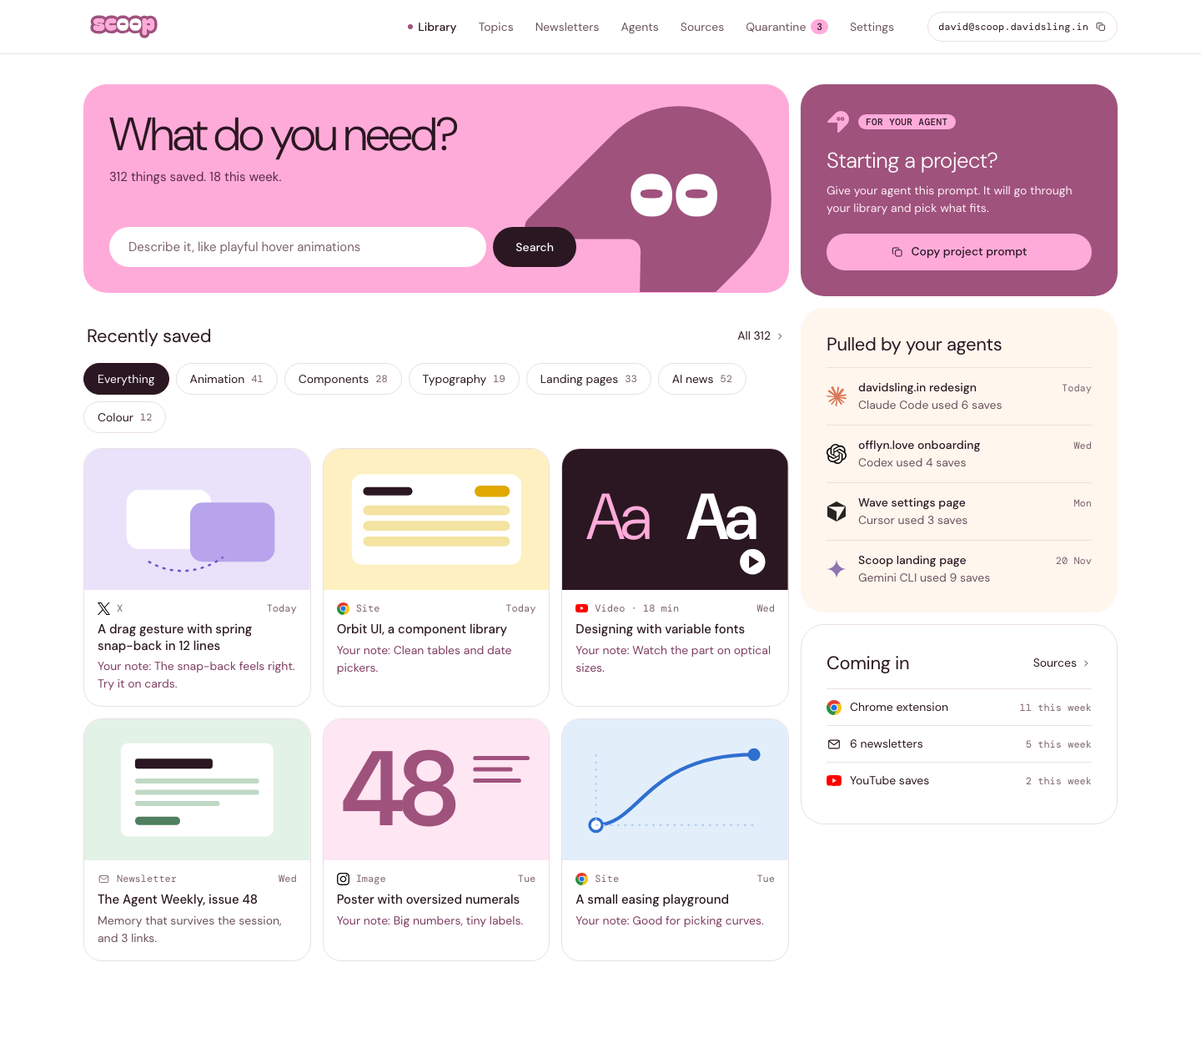
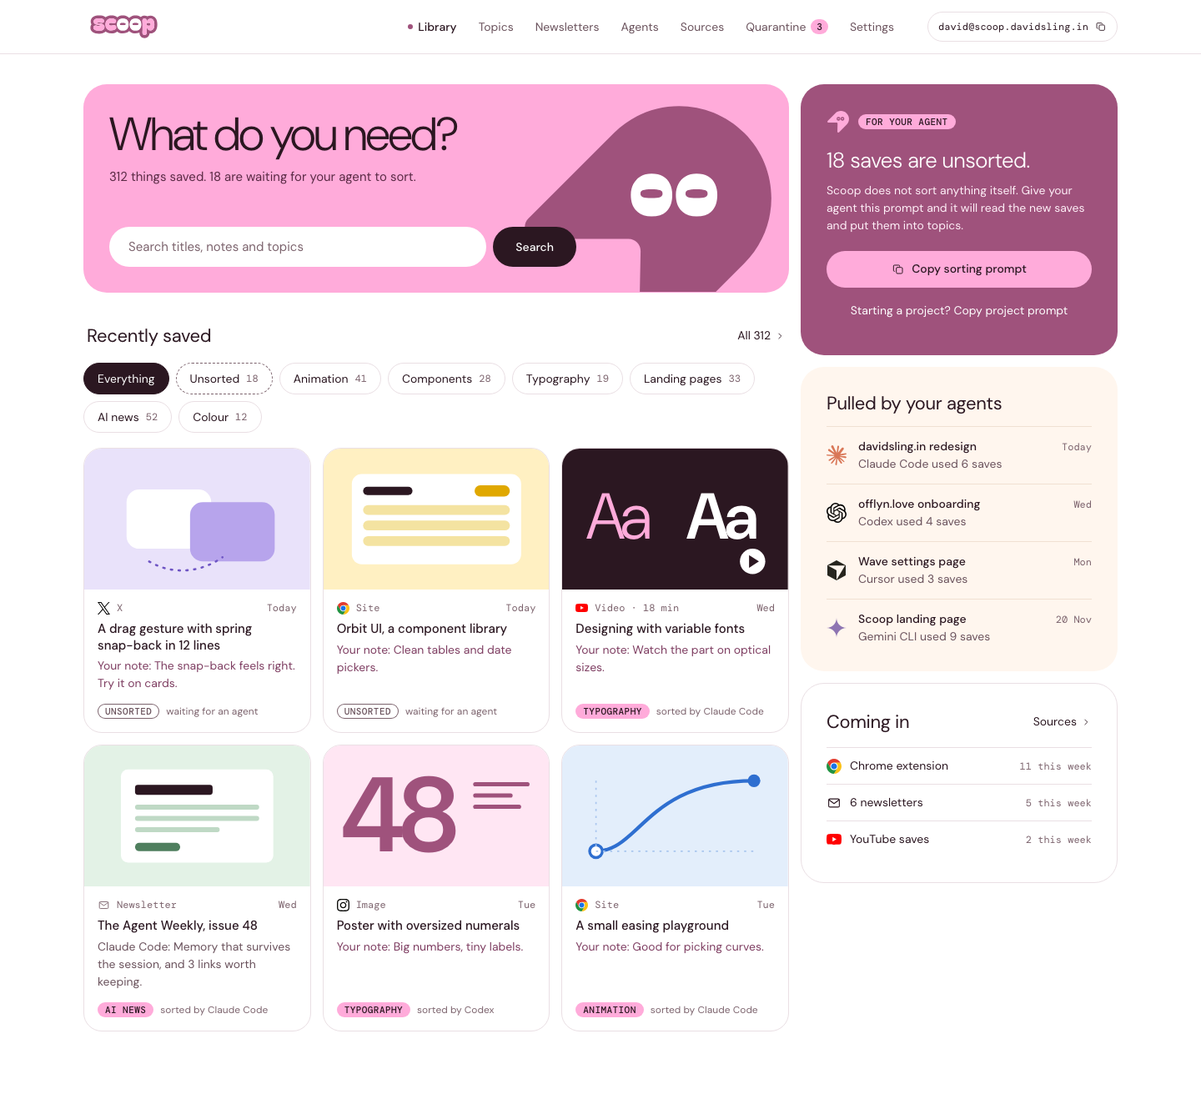
feat: leave classification to the agent
Scoop runs no AI of its own. Saves arrive unsorted and an agent sets
topics over MCP. The plan, product summary and dashboard show this.

diff --git a/mockups/dashboard.html b/mockups/dashboard.html
@@ -226,6 +226,16 @@ h2 { margin: 0; font-size: 22px; line-height: 1.2; font-weight: 400; letter-spac
 .feeds li { display: flex; align-items: center; gap: 10px; min-height: 44px; border-top: 1px solid var(--rule); }
 .feeds img.b, .feeds svg.i { width: 18px; height: 18px; }
 .feeds .t { margin-left: auto; font: 400 12px var(--mono); color: var(--ink-3); }
+
+.save .txt { display: flex; flex-direction: column; }
+.save a { display: flex; flex-direction: column; }
+.save .txt { flex: 1; }
+.sorted { display: flex; align-items: center; gap: 8px; margin-top: auto; padding-top: 14px; }
+.sorted .by { font-size: 12px; color: var(--ink-3); }
+.chip.none { background: transparent; color: var(--ink-2); box-shadow: inset 0 0 0 1px var(--ink-3); }
+.topics a.unsorted { border-style: dashed; border-color: var(--ink-3); }
+.btn.onmauve { width: 100%; min-height: 44px; margin-top: 6px; color: #fff; font-weight: 400; }
+.btn.onmauve:hover { background: var(--mauve-deep); }
 @media (max-width: 1100px) { .saves { grid-template-columns: repeat(2, minmax(0, 1fr)); } }
 @media (max-width: 720px) { .saves { grid-template-columns: minmax(0, 1fr); } .find { flex-direction: column; } }
 </style>
@@ -275,10 +285,10 @@ h2 { margin: 0; font-size: 22px; line-height: 1.2; font-weight: 400; letter-spac
       <header class="tile hero lib">
         <img class="mark" src="../brand/lockup-v2/scoop-lockup-mark-transparent.svg" alt="">
         <h1>What do you need?</h1>
-        <p class="count">312 things saved. 18 this week.</p>
+        <p class="count">312 things saved. 18 are waiting for your agent to sort.</p>
         <form class="find" onsubmit="return false">
           <label class="sr" for="q">Search your library</label>
-          <input id="q" type="search" placeholder="Describe it, like playful hover animations">
+          <input id="q" type="search" placeholder="Search titles, notes and topics">
           <button class="btn solid" type="submit">Search</button>
         </form>
       </header>
@@ -286,6 +296,7 @@ h2 { margin: 0; font-size: 22px; line-height: 1.2; font-weight: 400; letter-spac
       <div class="rowhd"><h2>Recently saved</h2><a href="#">All 312<svg class="i"><use href="#i-chev"/></svg></a></div>
       <ul class="topics">
         <li><a href="#" aria-current="true">Everything</a></li>
+        <li><a class="unsorted" href="#">Unsorted <span>18</span></a></li>
         <li><a href="#">Animation <span>41</span></a></li>
         <li><a href="#">Components <span>28</span></a></li>
         <li><a href="#">Typography <span>19</span></a></li>
@@ -294,21 +305,22 @@ h2 { margin: 0; font-size: 22px; line-height: 1.2; font-weight: 400; letter-spac
         <li><a href="#">Colour <span>12</span></a></li>
       </ul>
       <ul class="saves">
-        <li class="save"><a href="#"><span class="thumb"><svg viewBox="0 0 320 200" preserveAspectRatio="xMidYMid slice" aria-hidden="true"><rect width="320" height="200" fill="#E9E2FA"/><rect x="60" y="58" width="120" height="84" rx="18" fill="#fff"/><rect x="150" y="76" width="120" height="84" rx="18" fill="#B7A4EC"/><path d="M92 160c30 18 70 18 104-6" fill="none" stroke="#6E55C4" stroke-width="3" stroke-linecap="round" stroke-dasharray="2 9"/></svg></span><div class="txt"><div class="src"><img class="b" src="icons/x.svg" alt="">X<time>Today</time></div><h3>A drag gesture with spring snap-back in 12 lines</h3><p class="">Your note: The snap-back feels right. Try it on cards.</p></div></a></li>
-        <li class="save"><a href="#"><span class="thumb"><svg viewBox="0 0 320 200" preserveAspectRatio="xMidYMid slice" aria-hidden="true"><rect width="320" height="200" fill="#FFF0C2"/><rect x="40" y="36" width="240" height="128" rx="14" fill="#fff"/><rect x="56" y="54" width="70" height="12" rx="6" fill="#2B1721"/><rect x="56" y="80" width="208" height="14" rx="7" fill="#F4E3A1"/><rect x="56" y="102" width="208" height="14" rx="7" fill="#F4E3A1"/><rect x="56" y="124" width="208" height="14" rx="7" fill="#F4E3A1"/><rect x="214" y="52" width="50" height="16" rx="8" fill="#E0A800"/></svg></span><div class="txt"><div class="src"><img class="b" src="icons/googlechrome.svg" alt="">Site<time>Today</time></div><h3>Orbit UI, a component library</h3><p class="">Your note: Clean tables and date pickers.</p></div></a></li>
-        <li class="save"><a href="#"><span class="thumb"><svg viewBox="0 0 320 200" preserveAspectRatio="xMidYMid slice" aria-hidden="true"><rect width="320" height="200" fill="#2B1721"/><text x="34" y="128" font-family="DM Sans, sans-serif" font-size="92" font-weight="300" fill="#FFABDA" letter-spacing="-5">Aa</text><text x="176" y="128" font-family="DM Sans, sans-serif" font-size="92" font-weight="700" fill="#fff" letter-spacing="-5">Aa</text><circle cx="270" cy="160" r="18" fill="#fff"/><path d="m265 151 14 9-14 9z" fill="#2B1721"/></svg></span><div class="txt"><div class="src"><img class="b" src="icons/youtube.svg" alt="">Video · 18 min<time>Wed</time></div><h3>Designing with variable fonts</h3><p class="">Your note: Watch the part on optical sizes.</p></div></a></li>
-        <li class="save"><a href="#"><span class="thumb"><svg viewBox="0 0 320 200" preserveAspectRatio="xMidYMid slice" aria-hidden="true"><rect width="320" height="200" fill="#E3F2E6"/><rect x="52" y="34" width="216" height="132" rx="10" fill="#fff"/><rect x="72" y="56" width="110" height="14" rx="4" fill="#2B1721"/><rect x="72" y="84" width="176" height="7" rx="3.500" fill="#BFD9C5"/><rect x="72" y="100" width="176" height="7" rx="3.500" fill="#BFD9C5"/><rect x="72" y="116" width="120" height="7" rx="3.500" fill="#BFD9C5"/><rect x="72" y="138" width="64" height="12" rx="6" fill="#4F7F5E"/></svg></span><div class="txt"><div class="src"><svg class="i"><use href="#i-mail"/></svg>Newsletter<time>Wed</time></div><h3>The Agent Weekly, issue 48</h3><p class="auto">Memory that survives the session, and 3 links.</p></div></a></li>
-        <li class="save"><a href="#"><span class="thumb"><svg viewBox="0 0 320 200" preserveAspectRatio="xMidYMid slice" aria-hidden="true"><rect width="320" height="200" fill="#FFE6F3"/><text x="24" y="150" font-family="DM Sans, sans-serif" font-size="150" font-weight="700" fill="#9F527C" letter-spacing="-10">48</text><rect x="212" y="52" width="80" height="6" rx="3" fill="#9F527C"/><rect x="212" y="68" width="56" height="6" rx="3" fill="#9F527C"/><rect x="212" y="84" width="68" height="6" rx="3" fill="#9F527C"/></svg></span><div class="txt"><div class="src"><img class="b" src="icons/instagram.svg" alt="">Image<time>Tue</time></div><h3>Poster with oversized numerals</h3><p class="">Your note: Big numbers, tiny labels.</p></div></a></li>
-        <li class="save"><a href="#"><span class="thumb"><svg viewBox="0 0 320 200" preserveAspectRatio="xMidYMid slice" aria-hidden="true"><rect width="320" height="200" fill="#E3EEFB"/><path d="M48 150C110 150 120 50 272 50" fill="none" stroke="#2F6FD0" stroke-width="5" stroke-linecap="round"/><circle cx="48" cy="150" r="9" fill="#fff" stroke="#2F6FD0" stroke-width="4"/><circle cx="272" cy="50" r="9" fill="#2F6FD0"/><path d="M48 50v100h224" fill="none" stroke="#A9C6EE" stroke-width="2" stroke-dasharray="3 7"/></svg></span><div class="txt"><div class="src"><img class="b" src="icons/googlechrome.svg" alt="">Site<time>Tue</time></div><h3>A small easing playground</h3><p class="">Your note: Good for picking curves.</p></div></a></li>
+        <li class="save"><a href="#"><span class="thumb"><svg viewBox="0 0 320 200" preserveAspectRatio="xMidYMid slice" aria-hidden="true"><rect width="320" height="200" fill="#E9E2FA"/><rect x="60" y="58" width="120" height="84" rx="18" fill="#fff"/><rect x="150" y="76" width="120" height="84" rx="18" fill="#B7A4EC"/><path d="M92 160c30 18 70 18 104-6" fill="none" stroke="#6E55C4" stroke-width="3" stroke-linecap="round" stroke-dasharray="2 9"/></svg></span><div class="txt"><div class="src"><img class="b" src="icons/x.svg" alt="">X<time>Today</time></div><h3>A drag gesture with spring snap-back in 12 lines</h3><p class="">Your note: The snap-back feels right. Try it on cards.</p><div class="sorted"><span class="chip none">Unsorted</span><span class="by">waiting for an agent</span></div></div></a></li>
+        <li class="save"><a href="#"><span class="thumb"><svg viewBox="0 0 320 200" preserveAspectRatio="xMidYMid slice" aria-hidden="true"><rect width="320" height="200" fill="#FFF0C2"/><rect x="40" y="36" width="240" height="128" rx="14" fill="#fff"/><rect x="56" y="54" width="70" height="12" rx="6" fill="#2B1721"/><rect x="56" y="80" width="208" height="14" rx="7" fill="#F4E3A1"/><rect x="56" y="102" width="208" height="14" rx="7" fill="#F4E3A1"/><rect x="56" y="124" width="208" height="14" rx="7" fill="#F4E3A1"/><rect x="214" y="52" width="50" height="16" rx="8" fill="#E0A800"/></svg></span><div class="txt"><div class="src"><img class="b" src="icons/googlechrome.svg" alt="">Site<time>Today</time></div><h3>Orbit UI, a component library</h3><p class="">Your note: Clean tables and date pickers.</p><div class="sorted"><span class="chip none">Unsorted</span><span class="by">waiting for an agent</span></div></div></a></li>
+        <li class="save"><a href="#"><span class="thumb"><svg viewBox="0 0 320 200" preserveAspectRatio="xMidYMid slice" aria-hidden="true"><rect width="320" height="200" fill="#2B1721"/><text x="34" y="128" font-family="DM Sans, sans-serif" font-size="92" font-weight="300" fill="#FFABDA" letter-spacing="-5">Aa</text><text x="176" y="128" font-family="DM Sans, sans-serif" font-size="92" font-weight="700" fill="#fff" letter-spacing="-5">Aa</text><circle cx="270" cy="160" r="18" fill="#fff"/><path d="m265 151 14 9-14 9z" fill="#2B1721"/></svg></span><div class="txt"><div class="src"><img class="b" src="icons/youtube.svg" alt="">Video · 18 min<time>Wed</time></div><h3>Designing with variable fonts</h3><p class="">Your note: Watch the part on optical sizes.</p><div class="sorted"><span class="chip">Typography</span><span class="by">sorted by Claude Code</span></div></div></a></li>
+        <li class="save"><a href="#"><span class="thumb"><svg viewBox="0 0 320 200" preserveAspectRatio="xMidYMid slice" aria-hidden="true"><rect width="320" height="200" fill="#E3F2E6"/><rect x="52" y="34" width="216" height="132" rx="10" fill="#fff"/><rect x="72" y="56" width="110" height="14" rx="4" fill="#2B1721"/><rect x="72" y="84" width="176" height="7" rx="3.500" fill="#BFD9C5"/><rect x="72" y="100" width="176" height="7" rx="3.500" fill="#BFD9C5"/><rect x="72" y="116" width="120" height="7" rx="3.500" fill="#BFD9C5"/><rect x="72" y="138" width="64" height="12" rx="6" fill="#4F7F5E"/></svg></span><div class="txt"><div class="src"><svg class="i"><use href="#i-mail"/></svg>Newsletter<time>Wed</time></div><h3>The Agent Weekly, issue 48</h3><p class="auto">Claude Code: Memory that survives the session, and 3 links worth keeping.</p><div class="sorted"><span class="chip">AI news</span><span class="by">sorted by Claude Code</span></div></div></a></li>
+        <li class="save"><a href="#"><span class="thumb"><svg viewBox="0 0 320 200" preserveAspectRatio="xMidYMid slice" aria-hidden="true"><rect width="320" height="200" fill="#FFE6F3"/><text x="24" y="150" font-family="DM Sans, sans-serif" font-size="150" font-weight="700" fill="#9F527C" letter-spacing="-10">48</text><rect x="212" y="52" width="80" height="6" rx="3" fill="#9F527C"/><rect x="212" y="68" width="56" height="6" rx="3" fill="#9F527C"/><rect x="212" y="84" width="68" height="6" rx="3" fill="#9F527C"/></svg></span><div class="txt"><div class="src"><img class="b" src="icons/instagram.svg" alt="">Image<time>Tue</time></div><h3>Poster with oversized numerals</h3><p class="">Your note: Big numbers, tiny labels.</p><div class="sorted"><span class="chip">Typography</span><span class="by">sorted by Codex</span></div></div></a></li>
+        <li class="save"><a href="#"><span class="thumb"><svg viewBox="0 0 320 200" preserveAspectRatio="xMidYMid slice" aria-hidden="true"><rect width="320" height="200" fill="#E3EEFB"/><path d="M48 150C110 150 120 50 272 50" fill="none" stroke="#2F6FD0" stroke-width="5" stroke-linecap="round"/><circle cx="48" cy="150" r="9" fill="#fff" stroke="#2F6FD0" stroke-width="4"/><circle cx="272" cy="50" r="9" fill="#2F6FD0"/><path d="M48 50v100h224" fill="none" stroke="#A9C6EE" stroke-width="2" stroke-dasharray="3 7"/></svg></span><div class="txt"><div class="src"><img class="b" src="icons/googlechrome.svg" alt="">Site<time>Tue</time></div><h3>A small easing playground</h3><p class="">Your note: Good for picking curves.</p><div class="sorted"><span class="chip">Animation</span><span class="by">sorted by Claude Code</span></div></div></a></li>
       </ul>
     </div>
 
     <aside class="right">
       <section class="tile agent">
         <div class="who"><img src="../brand/lockup-v2/scoop-lockup-mark-pink-transparent.svg" alt=""><span class="chip">For your agent</span></div>
-        <p class="big">Starting a project?</p>
-        <p class="say">Give your agent this prompt. It will go through your library and pick what fits.</p>
-        <button class="btn pink" type="button"><svg class="i"><use href="#i-copy"/></svg>Copy project prompt</button>
+        <p class="big">18 saves are unsorted.</p>
+        <p class="say">Scoop does not sort anything itself. Give your agent this prompt and it will read the new saves and put them into topics.</p>
+        <button class="btn pink" type="button"><svg class="i"><use href="#i-copy"/></svg>Copy sorting prompt</button>
+        <button class="btn onmauve" type="button">Starting a project? Copy project prompt</button>
       </section>
 
       <section class="tile cream">

diff --git a/PLAN.md b/PLAN.md
@@ -8,7 +8,8 @@ Scoop is a personal library for your AI agent. You fill it with things you like 
 
 - **Who it is for:** one person who makes things with agents every day, starting with designers and developers. It is not a team tool and it is not a task manager.
 - **What goes in:** posts, pages, videos and images saved with one click from a Chrome extension, and newsletters sent to the agent's own address.
-- **What the agent does:** searches the library for what fits the project in front of it, reads those items, and learns your taste from what you chose to save.
+- **What the agent does:** sorts new saves into topics, searches the library for what fits the project in front of it, reads those items, and learns your taste from what you chose to save.
+- **No AI inside Scoop.** Scoop stores and serves. It does not classify, summarise or transcribe, because your agent does that better. A new save stays unsorted until an agent sorts it over MCP.
 - **What it never does:** send, post or pay. Project decisions do not live in Scoop either. They go in the project's own report.
 - **First version:** the Chrome extension, the email address for newsletters, and the MCP.
 
@@ -18,7 +19,7 @@ The logo is David's scoop character with the name "scoop" tucked into its notch,
 
 Type: Rubik for headlines, DM Sans for body text and DM Mono for addresses and code. All three are free on Google Fonts.
 
-> **Direction changed on Nov 26, 2026.** David described the real use: saving inspiration and resources now, and having an agent pull from them when a project starts. The summary, the positioning, the MCP section and the build order are updated for that. The sections on how it works, getting things in, processors and security were written for the earlier inbox framing. Their mechanics still apply, but they have not been rewritten.
+> **Direction changed on Nov 26, 2026.** David described the real use: saving inspiration and resources now, and having an agent pull from them when a project starts. The summary, the positioning, the MCP section, the processors section and the build order are updated for that, and for the rule that Scoop runs no AI of its own. The sections on how it works, getting things in and security were written for the earlier inbox framing. Their mechanics still apply, but they have not been rewritten.
 
 ## How someone uses it
 
@@ -101,17 +102,19 @@ Four routes feed the inbox, and all four end at the same add-item endpoint.
 
 ## The MCP
 
-The MCP lets the agent search, read and organise the library, and nothing else. It has no tool that sends, posts or pays.
+The MCP lets the agent sort, search and read the library, and nothing else. It has no tool that sends, posts or pays.
+
+All the thinking happens in the agent. Scoop only stores what the agent writes back.
 
 | The agent can | Why |
 | --- | --- |
-| Search by meaning, kind, topic, source and date | The main call: "what do I have on playful hover animations?" |
-| Read one item with its derived layers | Original, extracted text, transcript and summary, each marked with where it came from. |
-| Read the person's own note on an item | The note says why it was saved, which is the best signal of taste. |
-| Ask for a taste summary on a subject | A model-written description of what the person tends to save, marked as model-written. |
-| Add topics and a note to an item | The next session finds it faster. |
-| Record which items it used for a project | The person can see what was pulled, and the item gains context. |
-| List what is new since it last looked | Useful for newsletters, but no longer the main call. |
+| List unsorted saves | Everything arrives unsorted. This is how an agent finds what still needs sorting. |
+| Set topics, a kind and a short description on a save | This is the classification. Scoop records which agent wrote it and when. |
+| Search by text, topic, kind, source and date | The main call when a project starts. Search runs over titles, extracted text, your notes and what agents wrote. |
+| Read one save with everything attached | The original, extracted text, your note, and agent-written fields, each marked with where it came from. |
+| Add a note to a save | The next session, or another agent, inherits the thinking. |
+| Record which saves it used for a project | You can see what was pulled, and the save gains context. |
+| List what is new since it last looked | Useful for newsletters. |
 
 **What it deliberately cannot do**
 
@@ -120,6 +123,10 @@ The MCP lets the agent search, read and organise the library, and nothing else. 
 - Delete an original. It can only archive.
 - Store project decisions. Those belong in the project's own files.
 
+**What Scoop does not do for the agent**
+
+- It does not suggest topics, write summaries, transcribe or search by meaning. If an agent wants a summary or a view of your taste, it reads the saves and works it out itself.
+
 ## Processors and the marketplace
 
 Build the contract first and the marketplace last. A marketplace has a cold-start problem on both sides, so the first ten connectors and processors are written in-house against the same contract third parties will later use.
@@ -127,14 +134,14 @@ Build the contract first and the marketplace last. A marketplace has a cold-star
 **Two kinds of extension**
 
 - **Connectors** bring items in from one app.
-- **Processors** take an item and add a derived layer: a transcript, extracted article text, OCR, a summary, a duplicate check.
+- **Processors** take an item and add a derived layer by fixed rules: extracted article text, captions that already exist, link and image metadata, a duplicate check. Scoop's own processors use no AI.
 
 **The contract**
 
 - **A manifest.** It declares what the extension reads, which scopes it needs, what it emits, and which hosts it may contact.
 - **A sandbox.** A processor gets one item in and returns one layer out. It has no network access beyond what the manifest declares, and no access to other items.
 - **Deterministic routing.** Rules decide which processors run on which items. A model reading the content never decides.
-- **Per-use pricing for add-ons.** Transcription, OCR and summaries have real costs, so they are metered.
+- **No AI add-ons from Scoop.** Transcription, summaries and classification are the agent's job, done over MCP. Whether third-party processors may use AI is an open decision.
 
 **First set to build in-house**
 
@@ -142,8 +149,8 @@ Build the contract first and the marketplace last. A marketplace has a cold-star
 | --- | --- | --- |
 | Processor | Article text extraction | Runs on saved pages and newsletter emails |
 | Processor | Duplicate detection | Same link saved twice, same newsletter issue |
-| Processor | Transcription | Paid add-on. Captions first where they exist |
-| Processor | Summary | Paid add-on. Output is marked as model-written |
+| Processor | Existing captions | Fetches captions a video already has. No transcription |
+| Processor | Link and media metadata | Title, author, preview image, linked site |
 | Connector | Slack | Mentions and saved messages only, to start |
 | Connector | GitHub | Notifications |
 
@@ -157,7 +164,7 @@ The main risk is prompt injection. Everything in the inbox is written by strange
 | --- | --- |
 | An item tells the agent to do something | The MCP is read and organise only. Every item is returned as untrusted data with its source. |
 | A stranger floods or targets the address | Sender trust levels. Unknown senders go to quarantine. Rate limits apply per sender and per alias. |
-| A model-written summary relays an injection | Summaries carry the same untrusted label as the content they came from. |
+| An agent-written description relays an injection | Fields written by an agent carry the same untrusted label as the content they came from. |
 | One person's items reach another person | Every request is checked on the backend against the signed-in user and the item's owner. Nothing relies on the client. |
 | A connector token leaks | Tokens are encrypted at rest, scoped to the minimum, and never returned through the MCP. |
 | The extension is compromised | Its token can only add items. It cannot read. |
@@ -179,17 +186,17 @@ Five phases, each usable on its own. No dates are set yet.
 1. **Core: capture, store and MCP.**
    - The item store, the Chrome extension (save page, selection, post, image or video link, with a note), the email address for newsletters with quarantine, and the MCP's search and read tools.
    - Done when: something saved on Monday can be found by an agent on Friday from a plain description of it.
-2. **Processors for recall.**
-   - Text and media extraction for posts and pages, video transcripts, search by meaning, and automatic topics.
-   - Done when: a search for an idea finds items that never use those words.
-3. **Taste.**
-   - The taste summary, and the record of which items were used for which project.
-   - Done when: an agent starting a new project can describe the person's preferences from the library alone.
+2. **Sorting by the agent.**
+   - The MCP tools to list unsorted saves and write topics, kind and description back, plus rule-based extraction of text, captions and metadata so the agent has something to read.
+   - Done when: a week of unsorted saves can be sorted by an agent in one session, and the dashboard shows who sorted what.
+3. **Use in projects.**
+   - Search over everything the agent wrote, and the record of which saves were used for which project.
+   - Done when: an agent starting a new project finds fitting references from a plain description.
 4. **Connectors.**
    - The connector contract, then sources beyond the extension and email.
    - Done when: each is built on the public contract with no private shortcuts.
 5. **Marketplace.**
-   - Third-party submission, review and listing, plus metered billing for add-ons.
+   - Third-party submission, review and listing.
    - Done when: one outside developer ships an extension without help.
 
 ## Risks and open decisions
@@ -208,6 +215,7 @@ Five phases, each usable on its own. No dates are set yet.
 - [ ] Hosted only, or a self-hosted option for people who will not send personal mail to a third party.
 - [ ] Pricing: free core with paid add-ons, or a flat subscription.
 - [ ] Which connectors still matter for a library. Slack and GitHub notifications were planned for the inbox framing.
-- [ ] Whether the taste summary is on by default or opt-in.
+- [ ] Whether third-party processors may use AI, given that Scoop's own do not.
+- [ ] Whether an agent can store a note about the person's taste as a whole, not only notes on single saves.
 - [ ] Default retention period per source.
 - [ ] Whether one person can have several agents with separate cursors from day one.

diff --git a/PRODUCT.md b/PRODUCT.md
@@ -35,7 +35,9 @@ Bookmarking and read-later apps are built for a person to browse. In Scoop the m
 ## Capabilities and Constraints
 
 - Every source produces one item shape: source, sender, time, original content, state, labels, priority.
-- Originals never change. Transcripts, article text and summaries are layers added beside the original.
+- Scoop runs no AI of its own. It does not classify, summarise, transcribe or search by meaning. Confirmed by David on Nov 26, 2026.
+- Every save arrives unsorted. It stays that way until an agent sets its topics, kind and description over MCP. Scoop records which agent did it.
+- Originals never change. Extracted text, existing captions and agent-written fields are added beside the original.
 - Each agent has a cursor that records where it stopped reading. This matters less for a library than it did for an inbox.
 - Labels, priorities and notes written by the agent persist between sessions.
 - Each item carries a trust level. The person's own capture note is trusted. All other content is untrusted data.
@@ -60,6 +62,7 @@ Full detail is in `PLAN.md`.
 ## Product Principles
 
 - A library, not a to-do list. Nothing in Scoop asks the person to act.
+- Scoop stores, the agent thinks. Anything that needs judgement is done by the person's agent, not by Scoop.
 - Saving takes one click. Anything slower and the person will not do it mid-scroll.
 - The agent is the main reader, and it comes with a question.
 - The person's own note and choices are the signal. They show taste better than any page content.
